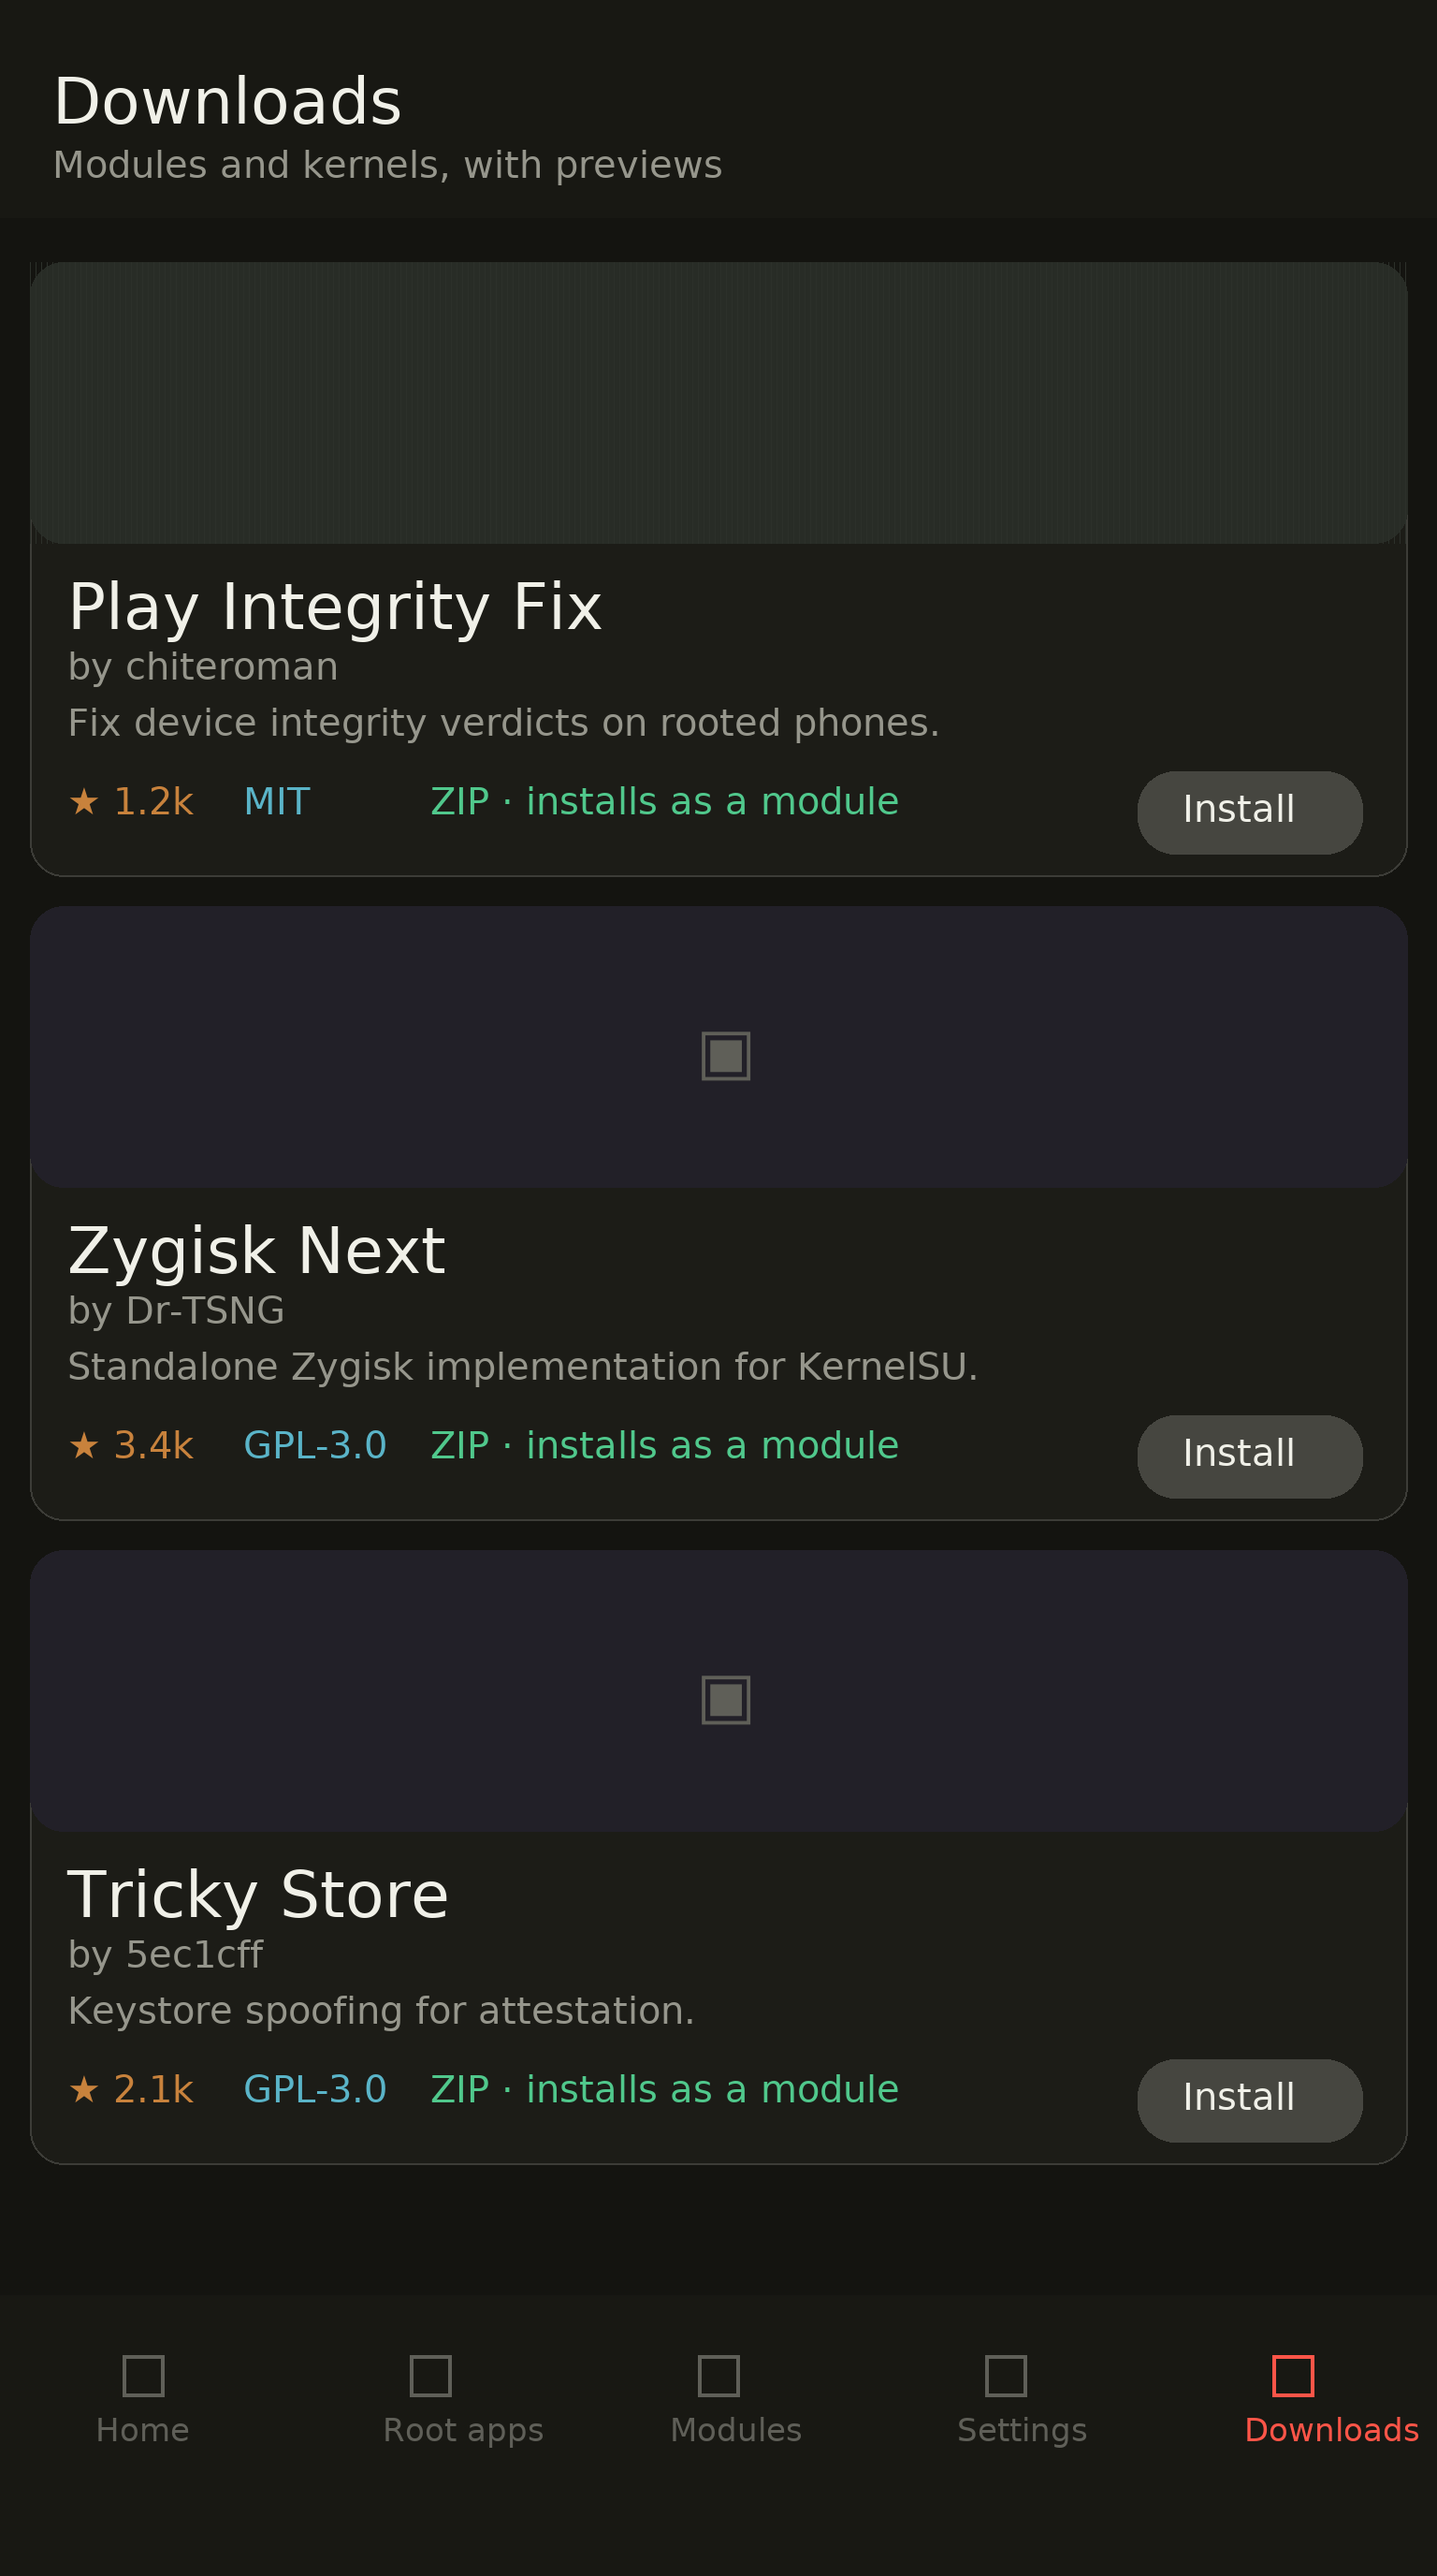
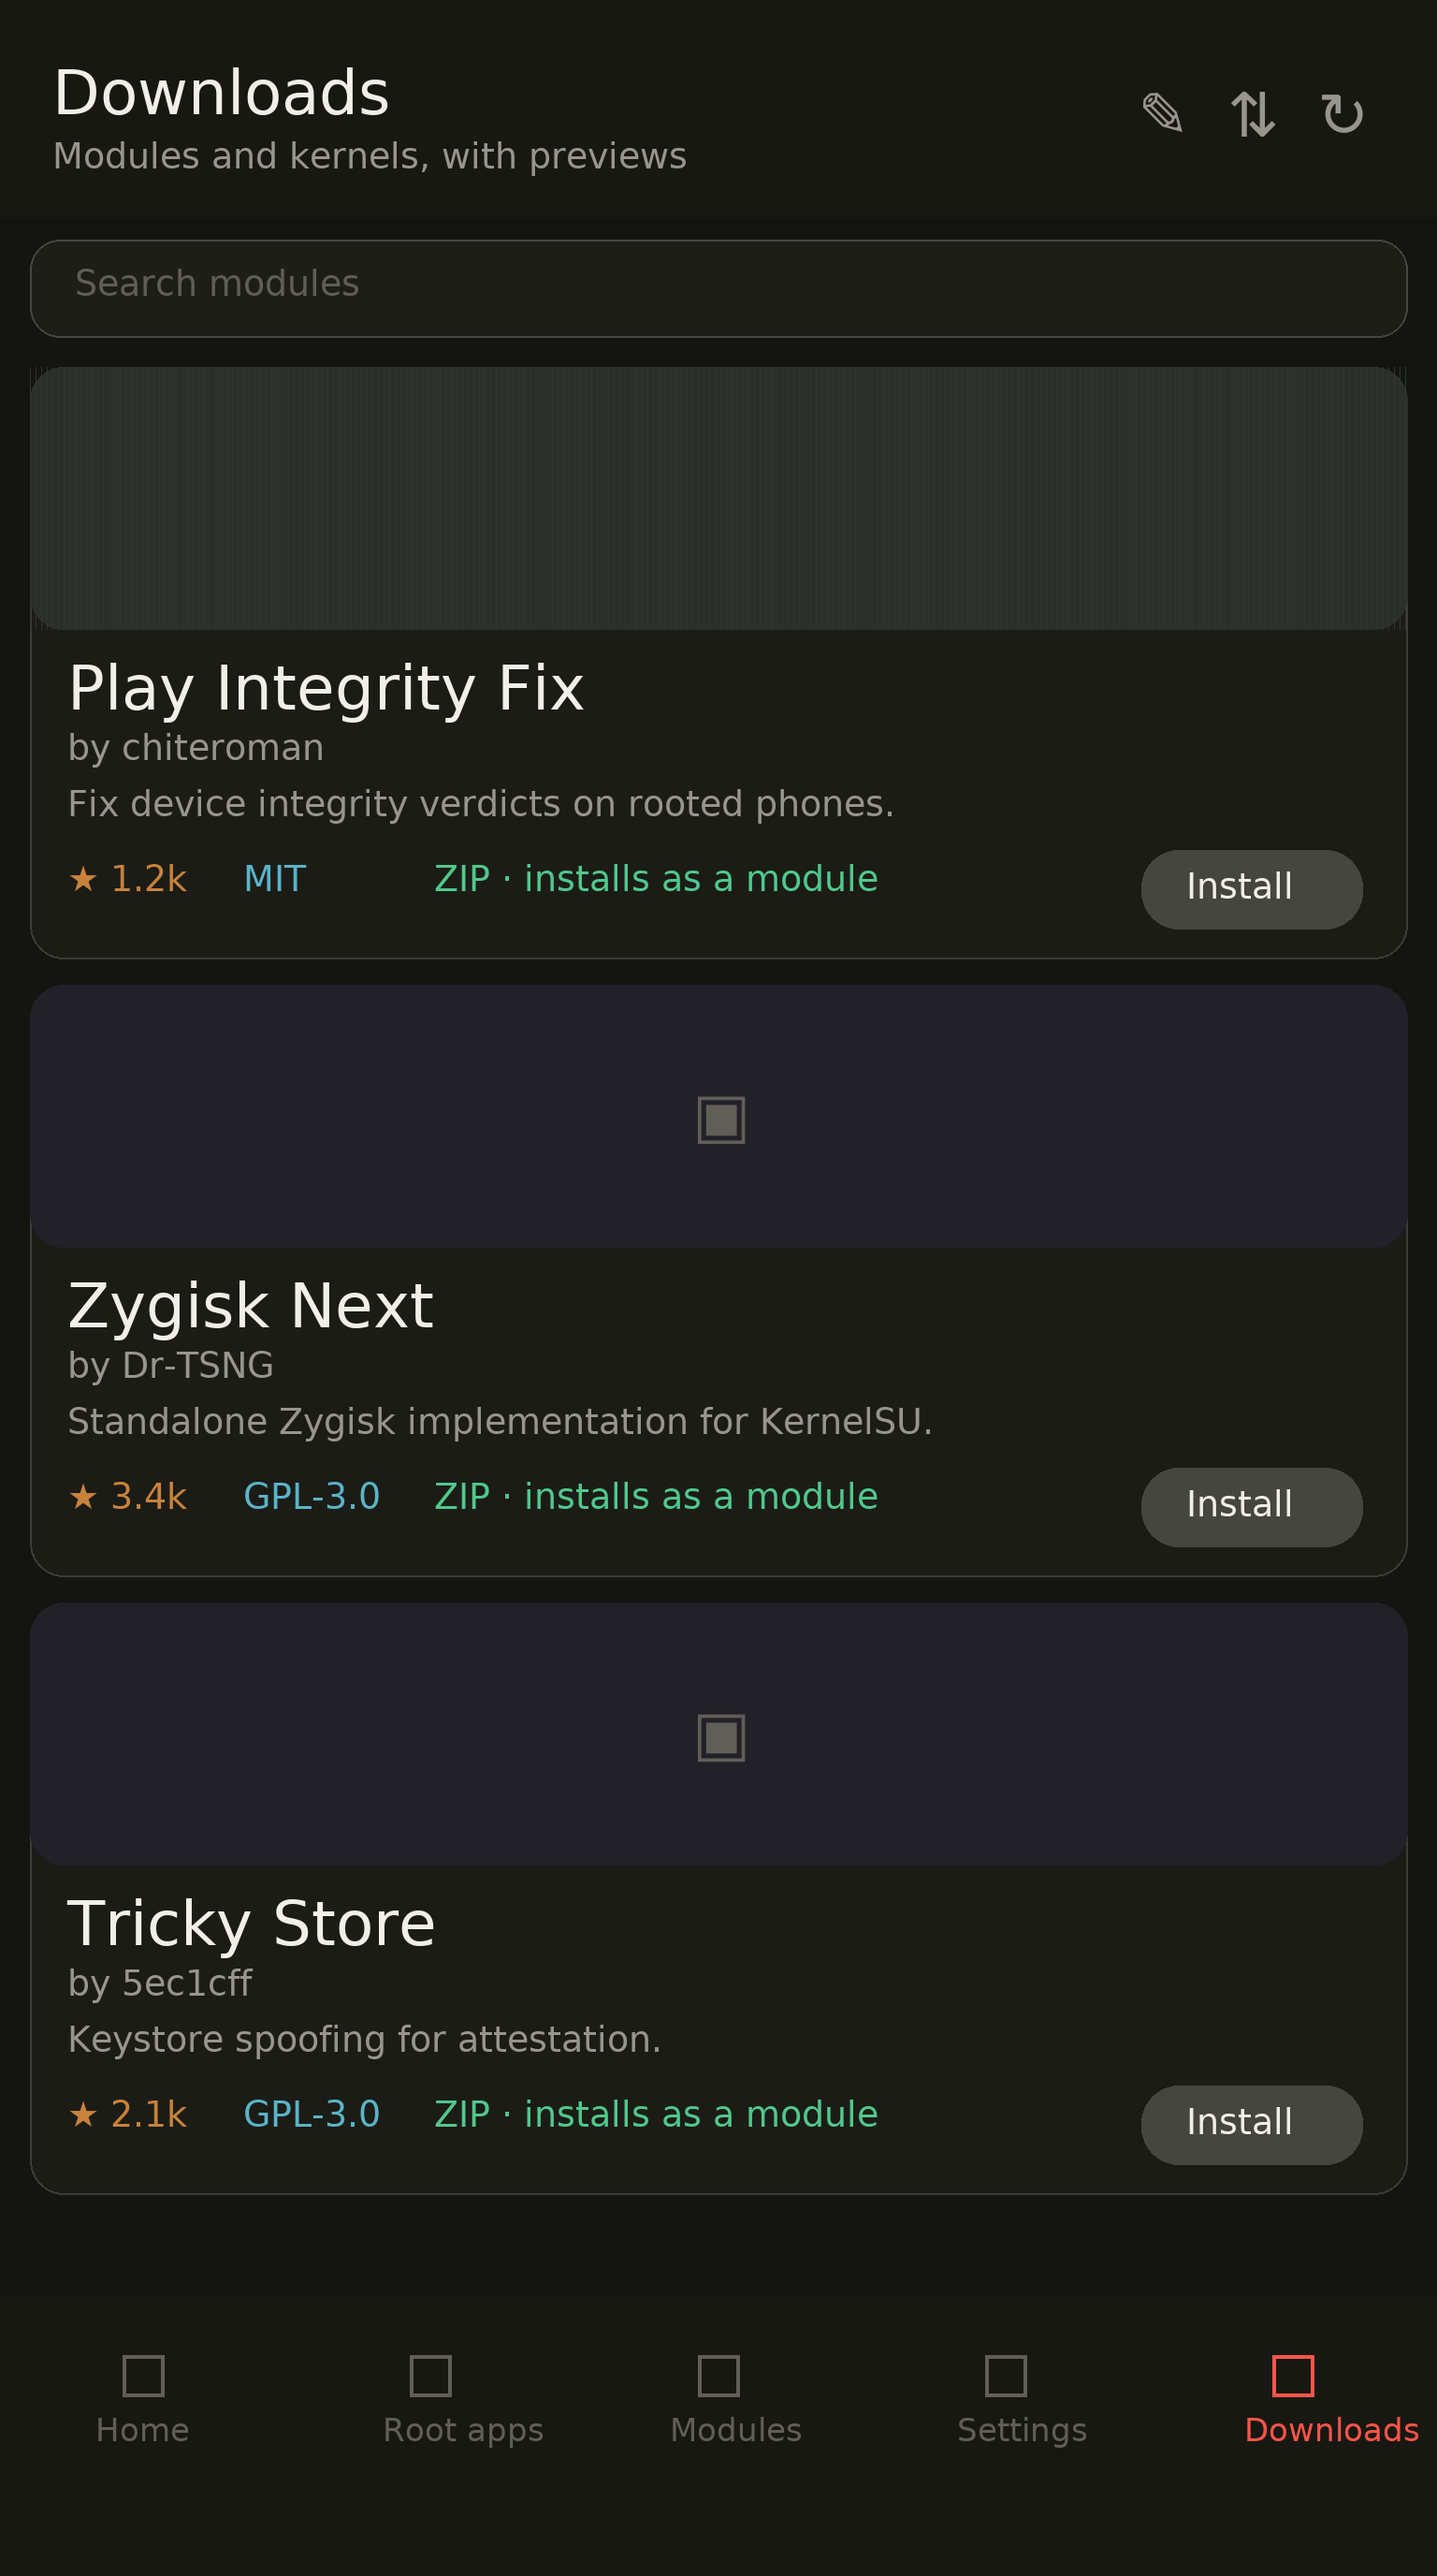
download: remember the chosen sort order, refresh the rendering

diff --git a/synthetica-manager/app/src/main/java/com/rifsxd/ksunext/ui/screen/Download.kt b/synthetica-manager/app/src/main/java/com/rifsxd/ksunext/ui/screen/Download.kt
@@ -484,7 +484,12 @@ fun DownloadScreen(navigator: DestinationsNavigator) {
                         IconButton(onClick = { showRepos = true }) {
                             Icon(Icons.Rounded.Edit, contentDescription = stringResource(R.string.manage_repositories))
                         }
-                        IconButton(onClick = { sortMode = when (sortMode) { "az" -> "za"; "za" -> "stars"; else -> "az" } }) {
+                        IconButton(onClick = {
+                            sortMode = when (sortMode) { "az" -> "za"; "za" -> "stars"; else -> "az" }
+                            // Without this the order resets on every visit, which
+                            // reads as the button not working.
+                            prefs.edit().putString("module_sort_mode", sortMode).apply()
+                        }) {
                             Icon(Icons.Rounded.Sort, contentDescription = null)
                         }
                         IconButton(onClick = { scope.launch { load() } }) {
